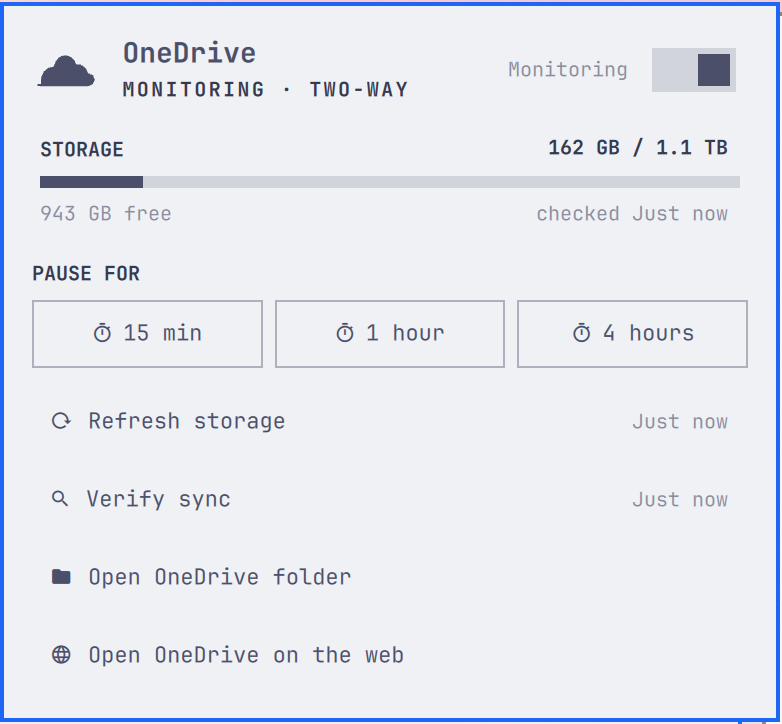
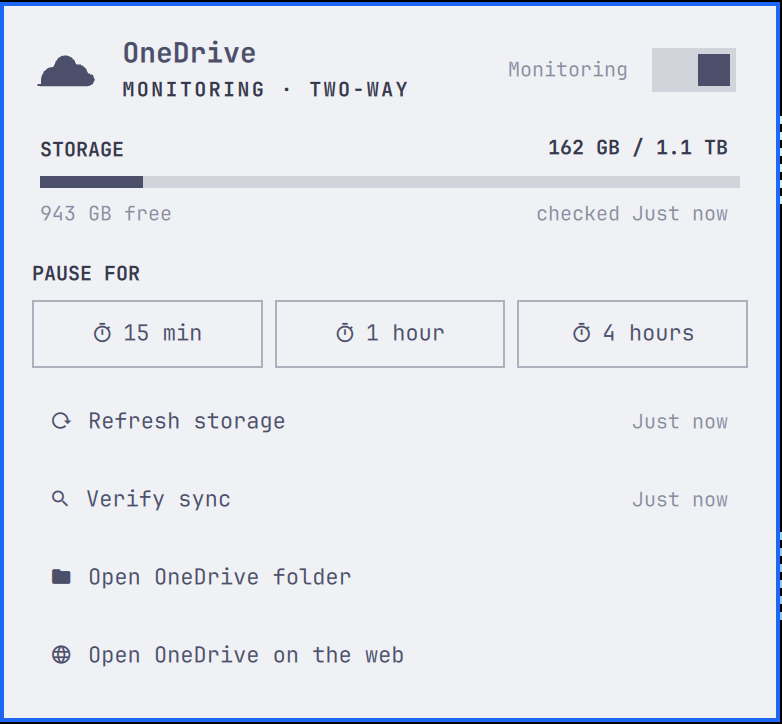
Give the storage chip breathing room
The Refresh storage label filled its chip edge to edge while Folder
and Web sat in comfortable padding. The refresh glyph already says
refresh, so the chip now reads Storage and centers with the same
margins as its neighbors. The Compact layout keeps the full
Refresh storage row title. Refresh the two panel screenshots to match.

Claude-Session: https://claude.ai/code/session_01LFFnjywDmqXToZ5Av1w24o

Changed region(s): [[0.9821, 0.0, 1.0, 1.0]]

diff --git a/Panel.qml b/Panel.qml
@@ -625,7 +625,7 @@ Panel {
             ActionChip {
               id: checkChip
               width: chipRow.chipWidth
-              text: oneDrive.quotaChecking ? "Refreshing…" : "Refresh storage"
+              text: oneDrive.quotaChecking ? "Refreshing…" : "Storage"
               icon: ""
               spinning: oneDrive.quotaChecking
               enabled: !oneDrive.busy

diff --git a/README.md b/README.md
@@ -93,7 +93,7 @@ Controls:
 
 Routine 30-second refreshes are local: they inspect the user service, its
 journal, the configured sync path, and cached presentation data. Only the
-explicit **Refresh storage** action runs `onedrive --display-quota` — with one
+explicit **Storage** refresh action runs `onedrive --display-quota` — with one
 exception: if the last storage check failed more than five minutes ago,
 opening the panel retries it once. The separate **Verify sync** action runs
 `onedrive --display-sync-status` to compare every file with the cloud, may
